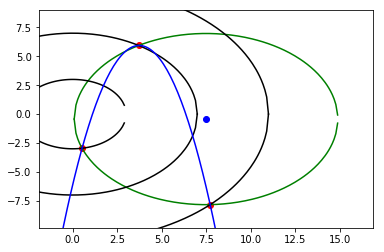
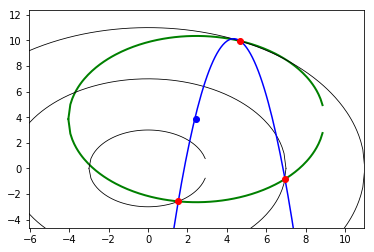
Clearer plotting

diff --git a/demo/plottingpoints.md b/demo/plottingpoints.md
@@ -61,37 +61,38 @@ def center(points):
     y, x = C[0], C[1]
     return x, y
 
-def plot_circle(r, cx, cy, color):
+def plot_circle(r, cx, cy, color, lw=2):
     xs = []; ys = []
     x = -r
     while x <= r:
        y = sqrt(r ** 2 - x ** 2)
        xs.append(x+cx); ys.append(y+cy);
        x += 0.1
-    plt.plot(xs, ys, color=color)
+    plt.plot(xs, ys, color=color, linewidth=lw)
     ys = [2*cy - y for y in ys]
-    plt.plot(xs, ys, color=color)
+    plt.plot(xs, ys, color=color, linewidth=lw)
 
 def plot(points, cen, r, a, b, c, radii):
     if (r != "N/A"):
         plt.xlim(cen[0] - r-2, cen[0] + r + 2) #circle plus padding
         plt.ylim(cen[1] - r-2, cen[1] + r + 2) #circle plus padding
         plt.autoscale(False)
-        
-    
-    #plot points
-    plt.plot([x for x, y in points],
-             [y for x, y in points], 'ro', color="red")
-    
+            
     #plot circle and center
     if (r != "N/A"):
         plt.plot([cen[0]], [cen[1]], 'ro', color="blue")
         plot_circle(r, cen[0], cen[1], "green")
-        
+      
+    #plot 'detector' rings
     for r in radii:
-        plot_circle(r, 0, 0, "black")
+        plot_circle(r, 0, 0, "black", lw=0.8)
         
+    #plot the quadratic    
     plot_quadratic(a, b, c)
+    
+    #plot points
+    plt.plot([x for x, y in points],
+             [y for x, y in points], 'ro', color="red")
     
     plt.show()
     return
@@ -141,10 +142,10 @@ if __name__ == "__main__":
 ```
 
     ========================================
-    Points: [(0.78, 2.9), (1.2, 6.9), (8.45, 7.05)]
-    Center: (4.88,4.49)
-    Radius: 4.39
-    Quadratic: -1.24x^2+11.96x+-5.72
+    Points: [(0.51, 2.96), (2.3, 6.61), (6.74, 8.7)]
+    Center: (7.19,1.96)
+    Radius: 6.75
+    Quadratic: -0.25x^2+2.76x+1.61
 
 
 
@@ -152,10 +153,10 @@ if __name__ == "__main__":
 
 
     ========================================
-    Points: [(0.53, -2.95), (3.71, 5.94), (7.73, -7.83)]
-    Center: (7.49,-0.43)
-    Radius: 7.4
-    Quadratic: -0.86x^2+6.46x+-6.12
+    Points: [(1.53, -2.58), (6.95, -0.83), (4.67, 9.96)]
+    Center: (2.45,3.85)
+    Radius: 6.5
+    Quadratic: -1.61x^2+14.0x+-20.27
 
 
 
@@ -163,10 +164,10 @@ if __name__ == "__main__":
 
 
     ========================================
-    Points: [(2.94, 0.58), (1.4, -6.86), (7.16, -8.35)]
-    Center: (5.27,-3.78)
-    Radius: 4.95
-    Quadratic: -1.2x^2+10.04x+-18.54
+    Points: [(2.04, -2.2), (4.14, -5.64), (10.68, -2.64)]
+    Center: (6.38,-1.91)
+    Radius: 4.36
+    Quadratic: 0.24x^2+-3.14x+3.19
 
 
 
